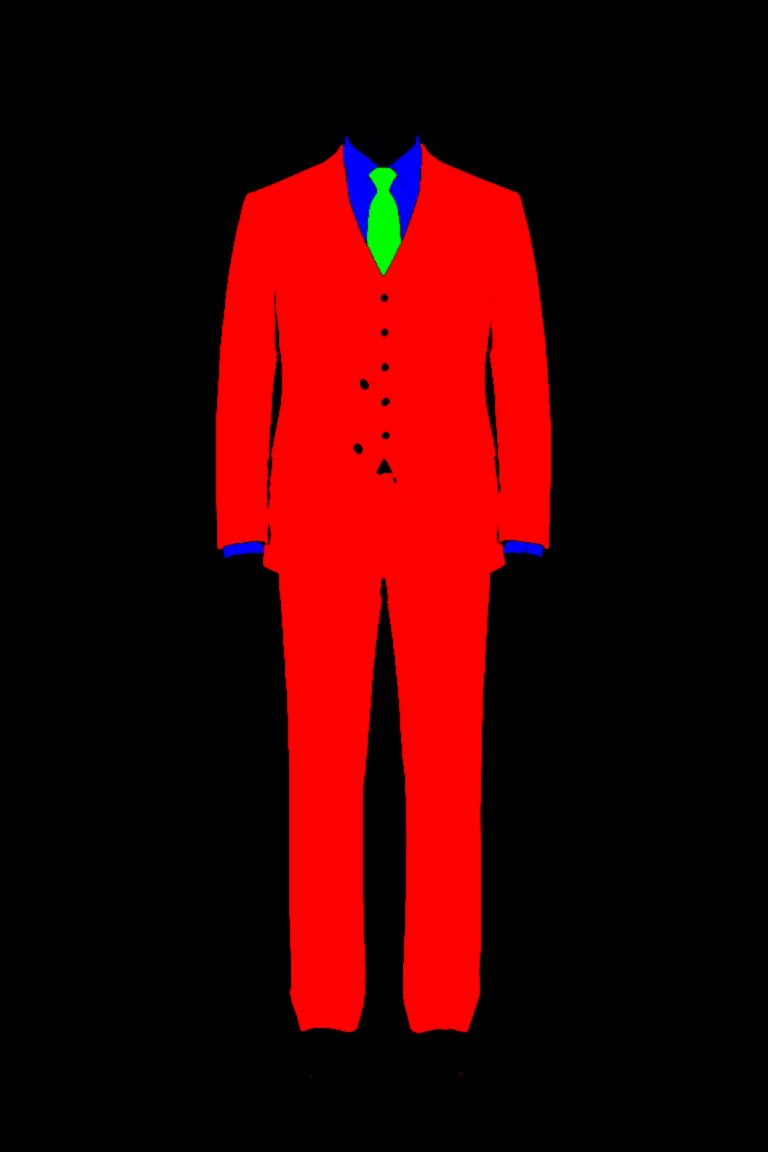
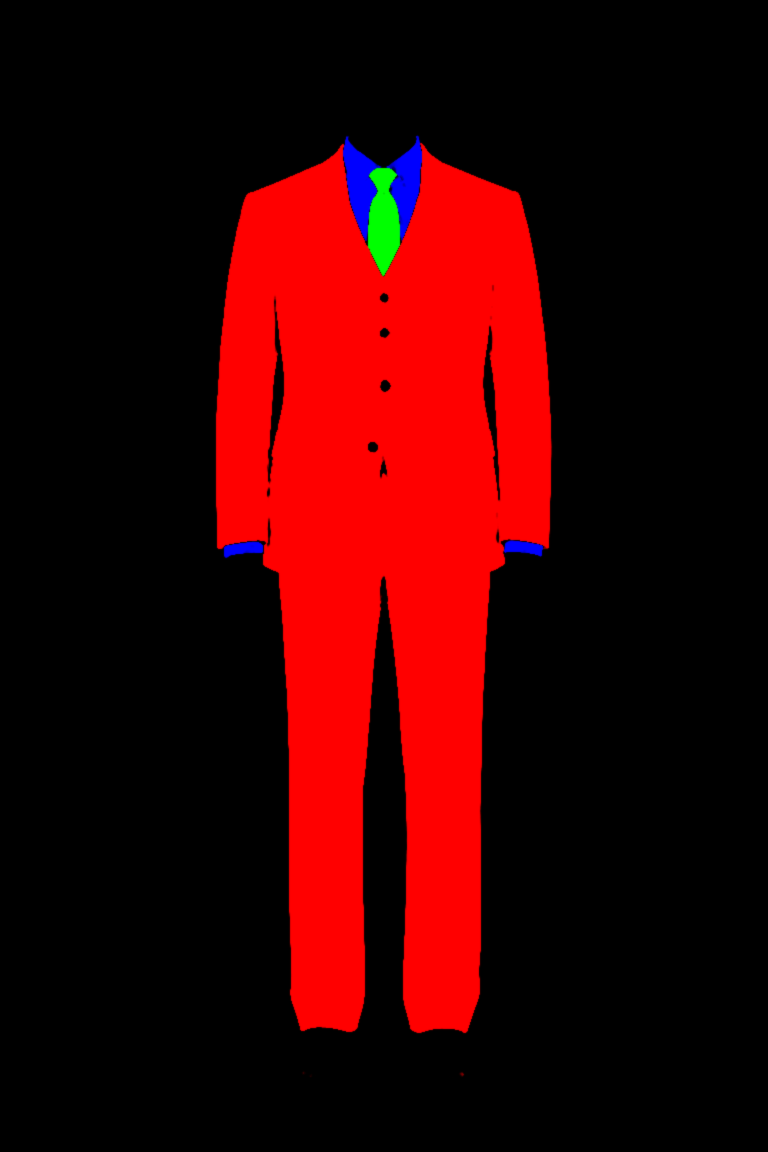
Simulator: only offer options the photos can show; back view and pocket close-up
Photo mode now has four steps (fabric, cut, details, shirt & tie). Cuts
and details without photos move to an 'at the salon' list. Vent choice
switches to rear photos, pocket choice shows a recolored close-up.

Claude-Session: https://claude.ai/code/session_016euzdqK1XPG3sLcepe4R3M

diff --git a/rotailor-shopify/theme/assets/suit-simulator.js b/rotailor-shopify/theme/assets/suit-simulator.js
@@ -36,6 +36,19 @@
     { id: 'vzone', label: 'シャツ・タイ', groups: ['shirt', 'tie'] }
   ];
 
+  // 写真モードの手順：写真で見た目が変わる項目だけを選んでもらう
+  var PHOTO_STEPS = [
+    { id: 'fabric', label: '生地', groups: ['fabric'] },
+    { id: 'style', label: '型', groups: ['style', 'lapel', 'threePiece'] },
+    { id: 'detail', label: 'ディテール', groups: ['pocket', 'vent'] },
+    { id: 'vzone', label: 'シャツ・タイ', groups: ['shirt', 'tie'] }
+  ];
+  // 写真が用意できている型（キー）。ここにないものは写真モードでは選択肢に出さない
+  var PHOTO_KEYS = { style: ['sb2', 'db6'], lapel: ['notch', 'peak'], pocket: ['flap', 'patch'], vent: ['side', 'center', 'none'] };
+  // 写真に出ないため、店頭でご案内する項目
+  var IN_STORE_GROUPS = ['button', 'lining', 'pleat', 'hem', 'extra'];
+  var VENT_PHOTO = { side: 'back-s', center: 'back-c', none: 'back-n' };
+
   var SINGLE_GROUPS = ['fabric', 'style', 'lapel', 'pocket', 'vent', 'button', 'lining', 'pleat', 'hem', 'shirt', 'tie'];
 
   var SEASON_LABELS = { all: 'オールシーズン', ss: '春夏', aw: '秋冬' };
@@ -156,7 +169,21 @@
     if (this.config.photos && !window.RoTailorPhoto) this.config.photos = null;
     this.groups.shirt = this.config.photos ? SHIRTS.slice() : [];
     this.uploads = {};
-    this.steps = STEPS.filter(function (step) {
+    if (this.config.photos) {
+      Object.keys(PHOTO_KEYS).forEach(function (g) {
+        var seen = {};
+        self.groups[g] = (self.groups[g] || []).filter(function (item) {
+          if (PHOTO_KEYS[g].indexOf(item.key) === -1 || seen[item.key]) return false;
+          seen[item.key] = true;
+          return true;
+        });
+      });
+      this.inStore = IN_STORE_GROUPS.filter(function (g) { return (self.groups[g] || []).length; }).map(function (g) {
+        return { label: GROUP_LABELS[g], names: self.groups[g].map(function (i) { return i.name; }) };
+      });
+      IN_STORE_GROUPS.forEach(function (g) { self.groups[g] = []; });
+    }
+    this.steps = (this.config.photos ? PHOTO_STEPS : STEPS).filter(function (step) {
       return step.groups.some(function (g) { return self.hasGroup(g); });
     });
     this.view = 'front';
@@ -257,15 +284,7 @@
     };
 
     root.querySelectorAll('[data-view]').forEach(function (btn) {
-      btn.addEventListener('click', function () {
-        self.view = btn.getAttribute('data-view');
-        root.querySelectorAll('[data-view]').forEach(function (b) {
-          var on = b === btn;
-          b.classList.toggle('is-active', on);
-          b.setAttribute('aria-pressed', on ? 'true' : 'false');
-        });
-        self.renderPreview();
-      });
+      btn.addEventListener('click', function () { self.setView(btn.getAttribute('data-view')); });
     });
 
     this.$.prev.addEventListener('click', function () { self.goStep(self.stepIndex - 1); });
@@ -319,6 +338,17 @@
     }
   };
 
+  Simulator.prototype.setView = function (view) {
+    if (this.view === view) return;
+    this.view = view;
+    this.root.querySelectorAll('[data-view]').forEach(function (b) {
+      var on = b.getAttribute('data-view') === view;
+      b.classList.toggle('is-active', on);
+      b.setAttribute('aria-pressed', on ? 'true' : 'false');
+    });
+    this.renderPreview();
+  };
+
   /* ------------------------------------------------------------ steps */
 
   Simulator.prototype.renderStepsNav = function () {
@@ -342,6 +372,10 @@
   Simulator.prototype.goStep = function (i) {
     if (i < 0 || i >= this.steps.length) return;
     this.stepIndex = i;
+    if (this.config.photos) {
+      if (this.view === 'back' && this.steps[i].id !== 'detail') this.setView('front');
+      this.renderPreview();
+    }
     this.renderStepsNav();
     this.renderStep();
     var top = this.$.nav.getBoundingClientRect().top;
@@ -367,10 +401,25 @@
         body.appendChild(fs);
       }
     });
+    if (this.inStore && this.inStore.length && this.stepIndex === this.steps.length - 1) {
+      body.appendChild(this.renderInStore());
+    }
   };
 
   Simulator.prototype.select = function (group, id) {
     this.state[group] = id;
+    if (this.config.photos) {
+      // ベントは後ろ姿で、それ以外は正面で見せる（描画は直後の update で）
+      var view = group === 'vent' ? 'back' : 'front';
+      if (this.view !== view) {
+        this.view = view;
+        this.root.querySelectorAll('[data-view]').forEach(function (b) {
+          var on = b.getAttribute('data-view') === view;
+          b.classList.toggle('is-active', on);
+          b.setAttribute('aria-pressed', on ? 'true' : 'false');
+        });
+      }
+    }
     if (this.uploads[group]) {
       this.uploads[group].active = false;
       this.$.body.querySelectorAll('[data-upload="' + group + '"]').forEach(function (b) { b.classList.remove('is-selected'); });
@@ -651,6 +700,12 @@
     if (tie || tieUp) spec.appendChild(el('div', { class: 'sim-spec__row' }, [el('dt', { text: 'Vゾーン' }), el('dd', { text: tieUp ? 'お持ちのネクタイの写真から' : tie.name })]));
     if (this.state.look) {
       spec.insertBefore(el('div', { class: 'sim-spec__row sim-spec__row--look' }, [el('dt', { text: '一着の名前' }), el('dd', { text: this.state.look.title })]), spec.firstChild);
+    }
+    if (this.inStore && this.inStore.length) {
+      spec.appendChild(el('div', { class: 'sim-spec__row sim-spec__row--note' }, [
+        el('dt', { text: '店頭で' }),
+        el('dd', { text: this.inStore.map(function (g) { return g.label; }).join('・') + 'をお選びいただけます' })
+      ]));
     }
     if (this.$.formSpec) this.$.formSpec.value = this.specText();
     if (this.$.summaryPreview) {
@@ -1269,8 +1324,10 @@
   Simulator.prototype.renderPhoto = function () {
     var self = this;
     var P = window.RoTailorPhoto;
-    var key = this.photoKey();
-    var urls = this.config.photos[key];
+    var vent = this.find('vent', this.state.vent) || { key: 'side' };
+    var back = this.view === 'back';
+    var key = back ? (VENT_PHOTO[vent.key] || 'back-s') : this.photoKey();
+    var urls = this.config.photos[key] || this.config.photos[this.photoKey()];
     var preview = this.$.preview;
     preview.classList.add('is-photo');
     var canvas = preview.querySelector('canvas.sim-photo');
@@ -1283,13 +1340,30 @@
     canvas.setAttribute('aria-label', [fabric.name, this.state.threePiece ? 'スリーピース' : null].filter(Boolean).join('、') + 'のスーツを着たマネキン');
     var token = this.photoToken = (this.photoToken || 0) + 1;
     preview.classList.add('is-loading');
+    var textures = {
+      suit: this.textureFor('suit', fabric),
+      shirt: this.textureFor('shirt', this.find('shirt', this.state.shirt)),
+      tie: this.textureFor('tie', this.find('tie', this.state.tie))
+    };
+    // ディテールの手順では、腰ポケットのアップを右下に重ねる
+    var step = this.steps[this.stepIndex];
+    var pocket = this.find('pocket', this.state.pocket);
+    var insetKey = !back && step && step.id === 'detail' && pocket ? 'pocket-' + pocket.key : null;
+    var inset = preview.querySelector('.sim-photo-inset');
+    if (!insetKey || !this.config.photos[insetKey]) {
+      if (inset) inset.remove();
+    } else {
+      if (!inset) {
+        inset = el('canvas', { class: 'sim-photo-inset', role: 'img', 'aria-label': '腰ポケットのアップ' });
+        preview.appendChild(inset);
+      }
+      P.loadBase(insetKey, this.config.photos[insetKey]).then(function (b) {
+        if (token === self.photoToken) P.compose(b, textures, inset, 3);
+      });
+    }
     P.loadBase(key, urls).then(function (base) {
       if (token !== self.photoToken) return;
-      P.compose(base, {
-        suit: self.textureFor('suit', fabric),
-        shirt: self.textureFor('shirt', self.find('shirt', self.state.shirt)),
-        tie: self.textureFor('tie', self.find('tie', self.state.tie))
-      }, canvas);
+      P.compose(base, textures, canvas);
       preview.classList.remove('is-loading');
       self.renderSummary();
     }).catch(function (e) {
@@ -1299,7 +1373,7 @@
       self.renderPreview();
     });
 
-    var dbl = key.indexOf('dp') === 0;
+    var dbl = back || key.indexOf('dp') === 0;
     this.root.querySelectorAll('[data-open]').forEach(function (b) {
       var isOpen = b.getAttribute('data-open') === '1';
       var on = isOpen === (!dbl && self.state.open);
@@ -1307,12 +1381,25 @@
       b.setAttribute('aria-pressed', on ? 'true' : 'false');
       if (isOpen) {
         b.disabled = dbl;
-        b.title = dbl ? 'ダブルは留めた状態で表示します' : '';
+        b.title = back ? '正面でお試しください' : (dbl ? 'ダブルは留めた状態で表示します' : '');
       }
     });
     if (this.$.caption) {
       this.$.caption.textContent = [fabric.name, fabric.mill, fabric.composition].filter(Boolean).join(' ／ ');
     }
+  };
+
+  // 写真に出ない仕様は、店頭でのお楽しみとして案内する
+  Simulator.prototype.renderInStore = function () {
+    var list = el('ul', { class: 'sim-instore__list' });
+    this.inStore.forEach(function (g) {
+      list.appendChild(el('li', null, [el('b', { text: g.label }), el('span', { text: g.names.join('／') })]));
+    });
+    return el('div', { class: 'sim-instore' }, [
+      el('p', { class: 'sim-instore__eyebrow', text: 'AT THE SALON' }),
+      el('p', { class: 'sim-instore__title', text: 'このほかに、店頭で実物を見ながら選べるもの' }),
+      list
+    ]);
   };
 
   // シャツ・ネクタイを「お持ちの写真から」作る
@@ -1355,7 +1442,7 @@
   };
 
   Simulator.prototype.renderPreview = function () {
-    if (this.config.photos && this.view === 'front') {
+    if (this.config.photos) {
       this.renderPhoto();
       return;
     }

diff --git a/rotailor-shopify/theme/assets/suit-simulator.css b/rotailor-shopify/theme/assets/suit-simulator.css
@@ -423,3 +423,18 @@ input.sim-stylist__input { font-size: 0.9rem; padding: 10px 14px; }
   .sim-preview__toolbar--buttons { grid-column: 2; grid-row: 1; align-self: end; margin-top: 0; }
 }
 .sim-option__dot--photo { background-size: 520%; background-position: 50% 48%; background-repeat: no-repeat; }
+.sim-photo-inset {
+  position: absolute;
+  right: 8px;
+  bottom: 8px;
+  width: 38%;
+  aspect-ratio: 1;
+  border: 2px solid var(--color-accent, #c9a55a);
+  box-shadow: 0 8px 24px rgba(0, 0, 0, 0.35);
+  background: #ddd;
+}
+.sim-instore { margin-top: 32px; padding: 20px 22px; border: 1px solid var(--color-border); background: rgba(201, 165, 90, 0.05); }
+.sim-instore__eyebrow { margin: 0 0 4px; font-family: var(--font-display); font-style: italic; letter-spacing: 0.18em; font-size: 0.75rem; color: var(--color-accent); }
+.sim-instore__title { margin: 0 0 12px; font-size: 0.95rem; }
+.sim-instore__list { list-style: none; margin: 0; padding: 0; display: grid; gap: 8px; font-size: 0.8rem; color: var(--color-muted); }
+.sim-instore__list b { display: inline-block; min-width: 7em; color: var(--color-text); font-weight: 500; }

diff --git a/rotailor-shopify/theme/assets/suit-photo.js b/rotailor-shopify/theme/assets/suit-photo.js
@@ -264,7 +264,8 @@
 
   /* ---------------------------------------------------------- compose */
 
-  function compose(base, textures, canvas) {
+  function compose(base, textures, canvas, scale) {
+    scale = scale || 1; // アップの写真では柄を拡大する
     var w = base.w, h = base.h;
     canvas.width = w;
     canvas.height = h;
@@ -284,7 +285,7 @@
         var wgt = mask[p + k] / 255;
         var t = tx[k];
         if (wgt <= 0 || !t) continue;
-        var q = ((y % t.h) * t.w + (x % t.w)) * 4;
+        var q = ((Math.floor(y / scale) % t.h) * t.w + (Math.floor(x / scale) % t.w)) * 4;
         var s = shade[i] / med[k];
         // 影はそのまま掛け、明るい部分は白に寄せる（光沢）
         var hi = s > 1 ? Math.min(1, (s - 1) * 0.9) : 0;

diff --git a/rotailor-shopify/tools/build-suit-photos.py b/rotailor-shopify/tools/build-suit-photos.py
@@ -10,9 +10,11 @@ ChatGPT などで作った色分け済みのマネキン写真（スーツ＝コ
 使い方:
   python3 tools/build-suit-photos.py <元画像のフォルダ>
 
-元画像のファイル名は 01〜10 で始まる名前にしてください（下の VARIANTS 参照）。
+元画像のファイル名は 01〜10 で始まる名前（下の VARIANTS 参照）か、
+キーそのもの（例: back-c.png、pocket-flap.png）にしてください。
 """
 import os
+import re
 import sys
 
 import numpy as np
@@ -24,7 +26,7 @@ VARIANTS = {
     "05": "sp-c", "06": "sp-o", "07": "sp-cv", "08": "sp-ov",
     "09": "dp-c", "10": "dp-cv",
 }
-WIDTH, HEIGHT = 768, 1152
+WIDTH = 768
 OUT = os.path.join(os.path.dirname(__file__), "..", "theme", "assets")
 
 
@@ -39,7 +41,8 @@ def hue_band(h, center, half, soft=12):
 
 
 def build(src, key):
-    im = Image.open(src).convert("RGB").resize((WIDTH, HEIGHT), Image.LANCZOS)
+    im = Image.open(src).convert("RGB")
+    im = im.resize((WIDTH, round(im.height * WIDTH / im.width)), Image.LANCZOS)
     hsv = np.asarray(im.convert("HSV")).astype(np.float32)
     h, s, v = hsv[..., 0] * 360 / 255, hsv[..., 1] / 255, hsv[..., 2] / 255
 
@@ -61,9 +64,10 @@ def build(src, key):
 def main():
     src_dir = sys.argv[1]
     for name in sorted(os.listdir(src_dir)):
-        num = name[:2]
-        if num in VARIANTS:
-            print(num, VARIANTS[num], build(os.path.join(src_dir, name), VARIANTS[num]))
+        stem = os.path.splitext(name)[0]
+        key = VARIANTS.get(name[:2]) or (stem if re.fullmatch(r"[a-z]+(-[a-z]+)*", stem) else None)
+        if key:
+            print(name, key, build(os.path.join(src_dir, name), key))
 
 
 if __name__ == "__main__":
